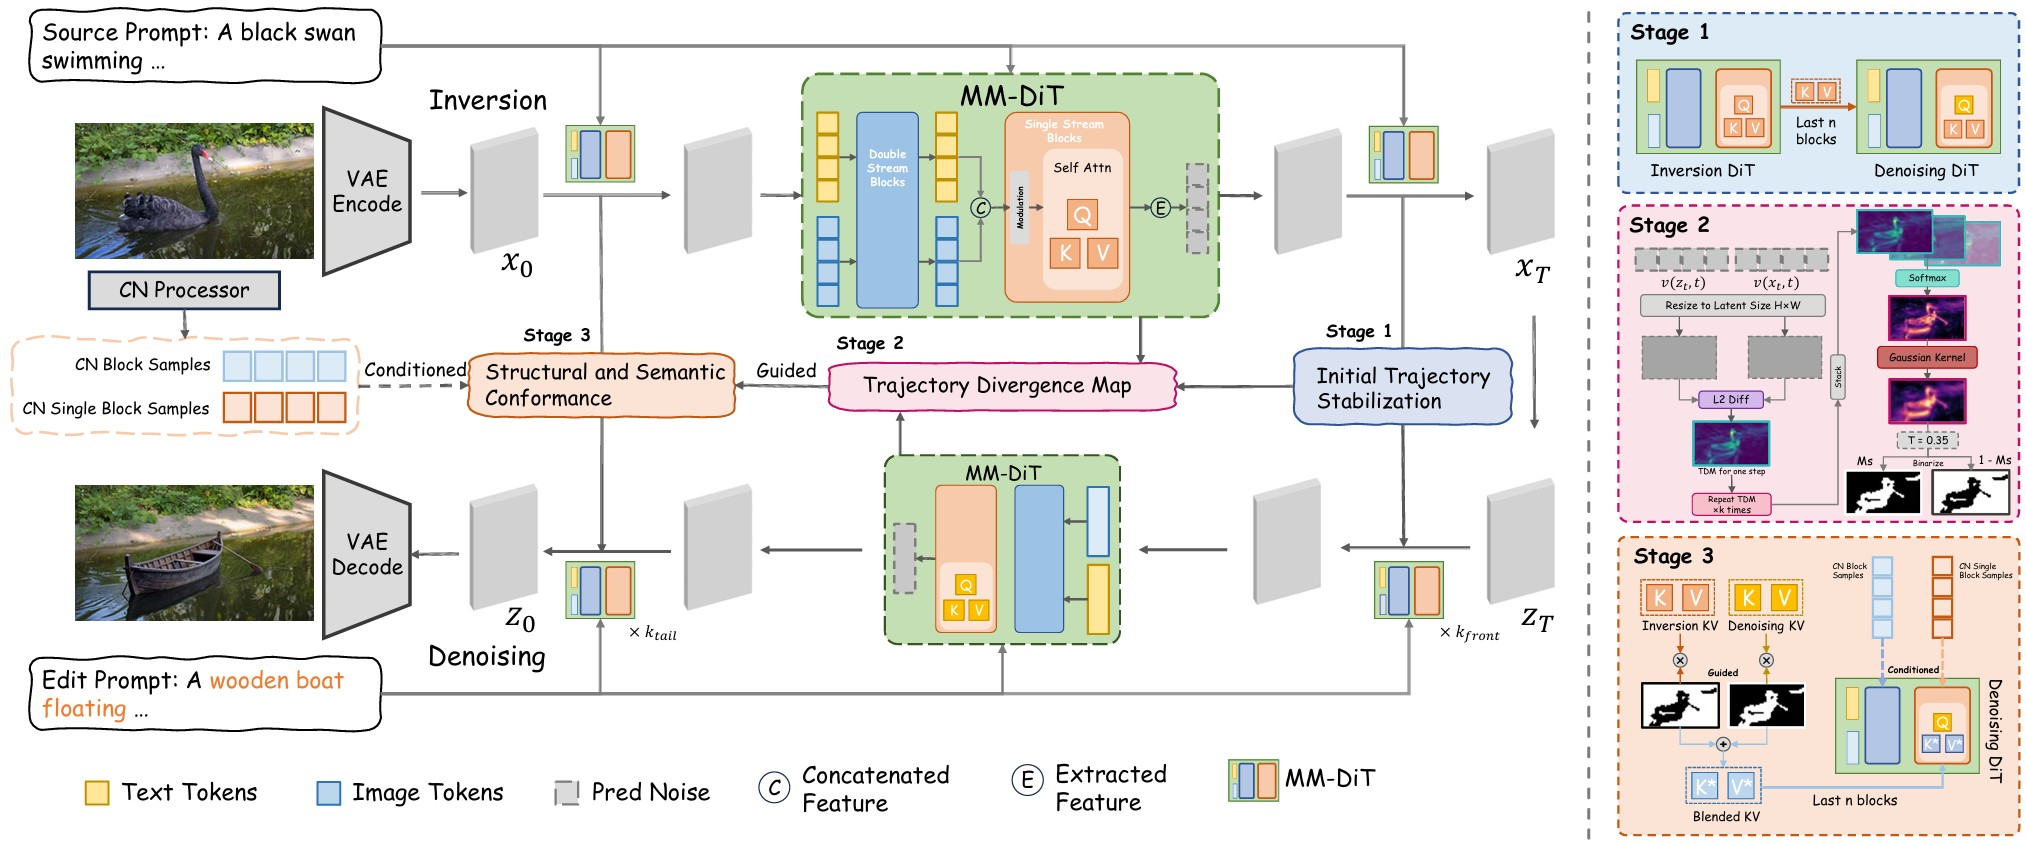
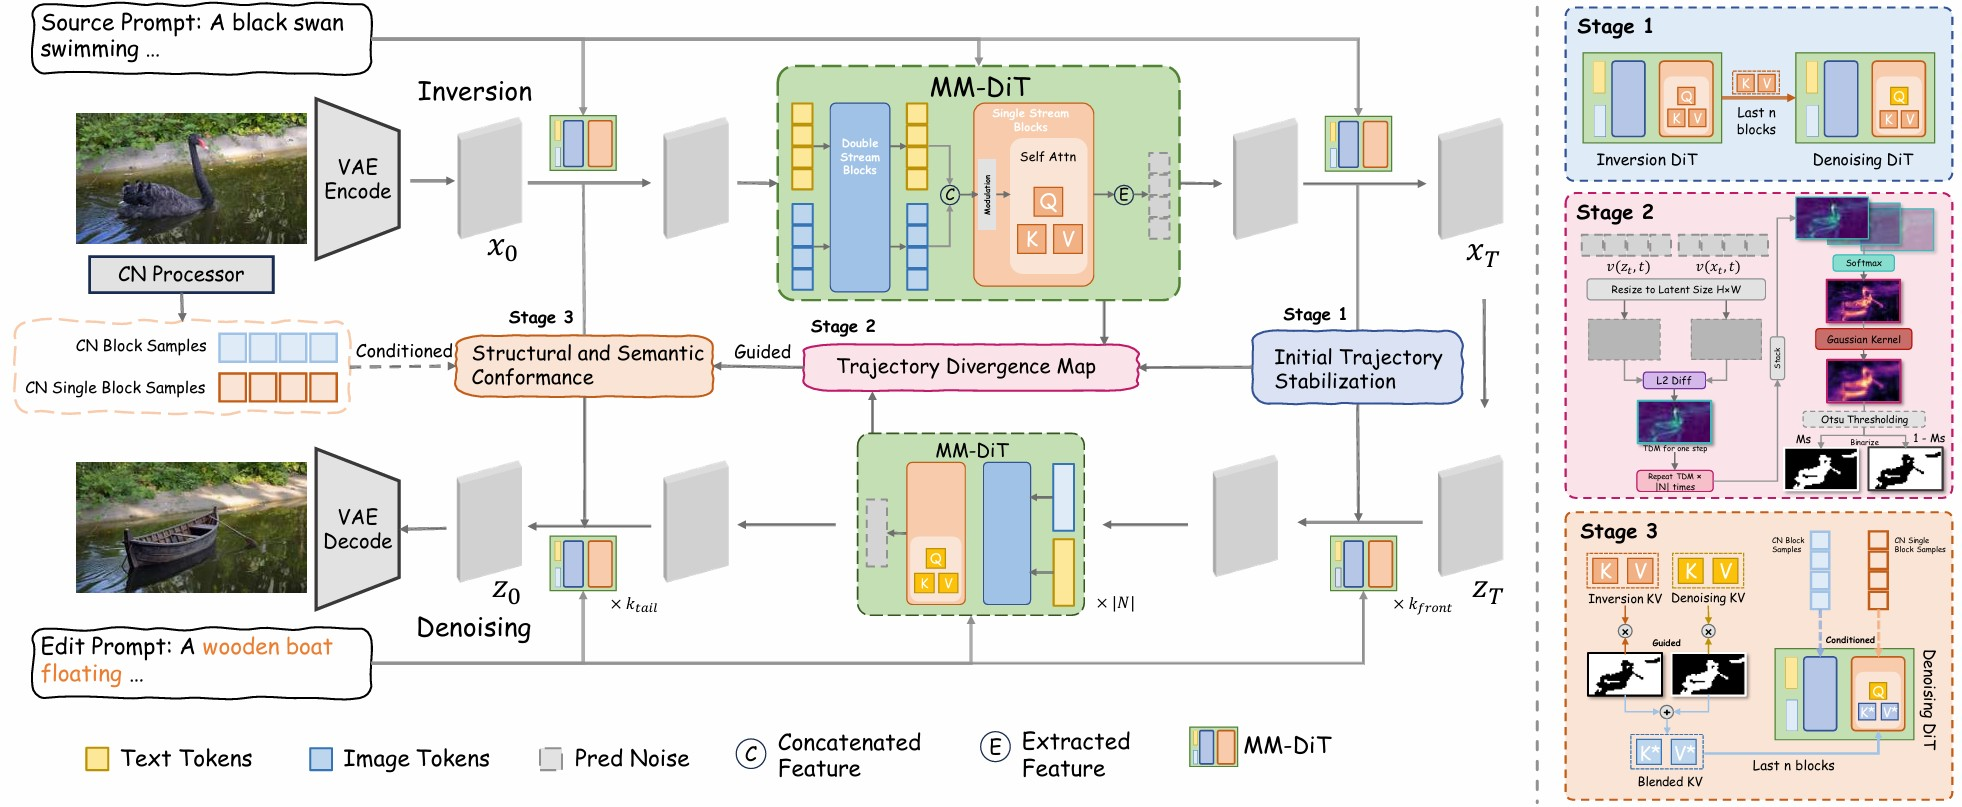
update with the Otsu threhold implementation

diff --git a/src/flux/sampling.py b/src/flux/sampling.py
@@ -16,6 +16,8 @@ from tqdm import tqdm
 from scipy.signal import convolve2d
 from scipy.ndimage import gaussian_filter
 import os
+import matplotlib.pyplot as plt
+import seaborn as sns
 
 
 def prepare(t5: HFEmbedder, clip: HFEmbedder, img: Tensor, prompt: str | list[str]) -> dict[str, Tensor]:
@@ -378,7 +380,24 @@ def denoise_with_TDM(
             soft_mask = (delta_stack * softmax_weights).sum(dim=0)  # [H, W]
             soft_np = soft_mask.to(torch.float32).cpu().numpy()  # [H_patch, W_patch]
             smoothed_np = gaussian_filter(soft_np, sigma=0.7)
-            threshold = 0.33
+
+            from skimage.filters import threshold_otsu
+
+            threshold = threshold_otsu(smoothed_np)
+            # print("Otsu threshold:", threshold)
+            # values = smoothed_np.flatten()
+            # plt.figure(figsize=(6,4))
+            # sns.histplot(values, bins=50, kde=True, color="lightblue", stat="count", alpha=0.6)
+            # plt.axvline(threshold, color="red", linestyle="--", linewidth=1, label=f"Otsu τ = {threshold:.2f}")
+            # plt.xlim(0, 1)
+            # plt.xlabel("Value")
+            # plt.ylabel("Density")
+            # plt.legend()
+            # plt.title("Smoothed values distribution")
+            # plt.savefig("smoothed_dist.png", dpi=300, bbox_inches="tight")
+            # import pdb; pdb.set_trace()
+
+
             smoothed_binary_np = (smoothed_np > threshold).astype(np.uint8)
             binary_map = torch.tensor(smoothed_binary_np, device=delta_stack.device, dtype=torch.float32)
 
@@ -398,14 +417,6 @@ def denoise_with_TDM(
                 plt.close()
                 print("Saved edit map visualization to edit_map.png")
 
-
-            # plt.figure(figsize=(6, 5))
-            # plt.imshow(binary_map.to(torch.float32).cpu().numpy(), cmap='viridis')
-            # plt.colorbar()
-            # plt.title("Edit Map")
-            # plt.savefig("edit_map.png")
-            # plt.close()
-            # print("Saved edit map visualization to edit_map.png")
 
 
 

diff --git a/src/edit.py b/src/edit.py
@@ -293,7 +293,6 @@ def main(
         x, _ = denoise_with_TDM(model, **inp_target, timesteps=timesteps, guidance=guidance, inverse=False, info=info, width=opts.width, height=opts.height, inject_list=inject_list, tail_pad=1, front_pad=args.front,
                                        controlnet=controlnet, control_patch=control_patch, controlnet_scale=controlnet_scale, controlnet_mode=control_mode, guidance_start=guidance_start, guidance_end=guidance_end)       
 
-        # x, _ = denoise(model, **inp_target, timesteps=timesteps, guidance=guidance, inverse=False, info=info, inject_list=inject_list) 
         
         if offload:
             model.cpu()
